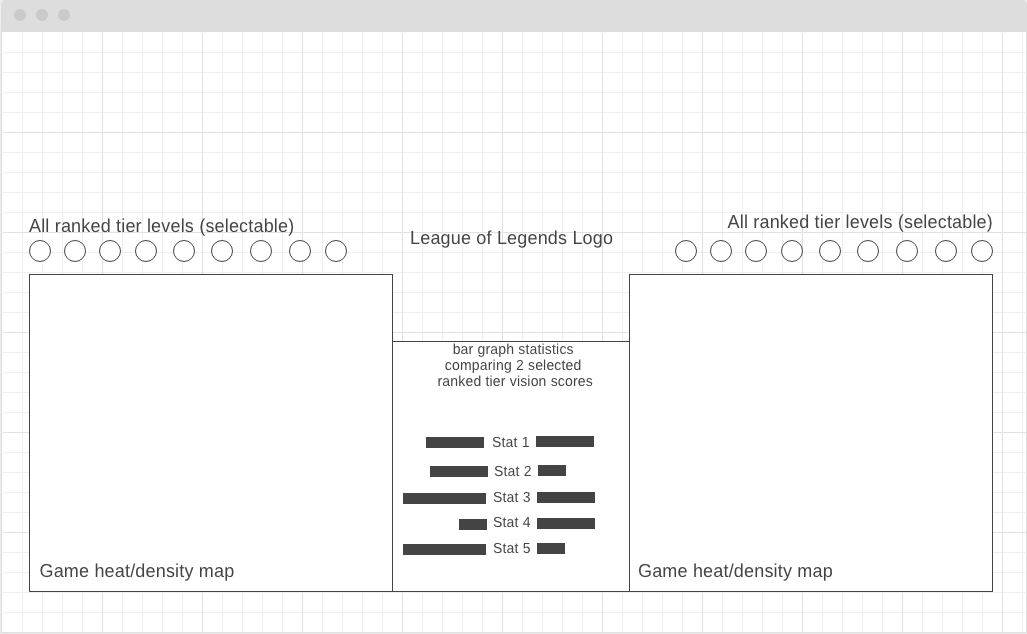
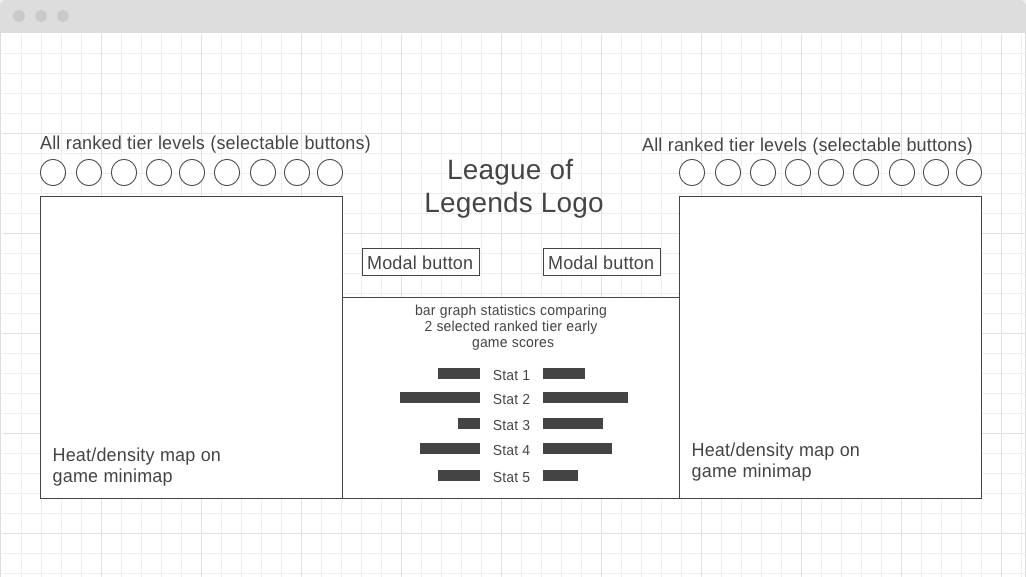
Add readme code snippets and update wireframe

diff --git a/README.md b/README.md
@@ -8,12 +8,64 @@
   * High level overview
     * Users will be able to review and observe patterns of player deaths in the first 15 minutes in a sample selection of matches ranging from the lowest tier of ranked play (iron tier) to the highest level tier (challenger tier). This mapping of data will hopefully show how locations and statistics differ from low-level play vs. high level play. The breakdown of average stats per game, such as total gold earned, wards placed, and towers destroy on the map will also be graphed to show the differences in numbers of how different level divisions perform within the early stages of the game. 
 
-## Functionality and MVP Features
-  * Users will be able to:
-    * Switch between comparisons of all 9 rank tiers to see how the map data changes over different levels of competitive play
-    * See a comparison of two heat/density maps of all player deaths on the game map by two different tier classes within the first 15 minutes of the match
-    * See two sets of buttons available to toggle which league division's stats are being displayed
-    * See a bar graph of average game statistics for that division (average towers destroyed, total gold, wards placed, lane minions killed, and jungle minions killed)
+## Functionality & Features
+  * Users can switch between comparisons of league datasets via 2 sets of buttons to see how the map data changes over different levels of competitive play. This required creating a method that kept track of which button was currently selected. This was done by adding an 'active' class to whichever button had been last clicked and removing it from the previous active button:
+  ```javascript
+  const iconContainer1 = document.getElementById("buttonSet1");
+  const buttonSet1 = iconContainer1.getElementsByClassName("button");
+  for (let i = 0; i < buttonSet1.length; i++) {
+    buttonSet1[i].addEventListener("click", function () {
+      const current = document.getElementsByClassName("active");
+      if (current.length > 0) {
+        current[0].className = current[0].className.replace(" active", "");
+      }
+      this.className += " active";
+    });
+  }
+  ```
+  * When a league dataset is selected via a button, a heat/density map of all player deaths on the game map within the first 15 minutes of the match is seen for that league. Using the D3 library, each data point is individually mapped onto the game minimap with a set of coordinates retrieved from the JSON data as a specific-colored point:
+  ```javascript
+  d3.json(dataPath, function(data) {
+    const dataPoint = data.frames;
+    svg
+      .append("svg:g")
+      .selectAll("circle")
+      .data(dataPoint)
+      .enter()
+      .append("svg:circle")
+      .style("opacity", 0)
+      .attr("cx", function(d) {
+        return xScale(d.position.x);
+      })
+      .attr("cy", function(d) {
+        return yScale(d.position.y);
+      })
+      .attr("r", 5)
+      .style("fill", function(d) {
+        if (d.victimId < 6) {
+          return "rgb(0, 77, 172)"; // <-- colors of data points on map
+        } else {
+          return "rgb(0, 102, 227)"; // <-- colors of data points on map
+               }
+      })
+      .transition()
+      .duration(400)
+      .style("opacity", 1);
+  ```
+  A dataset path is taken in as an argument for each button that is pressed to locate the correct JSON data to map:
+  ```javascript
+  const ironJson = './match_data/iron_match_data.json';
+  ...
+  <img class="button active" 
+    src="./assets/images/button_iron.png" 
+    // The onclick methods called below take in the path location of a specific set of data as an argument:
+    onclick="changeData(`${ironJson}`), updateGraph1(`${ironJson}`)" 
+    onmouseover="showrank('txt-iron1')" 
+    onmouseout="hiderank('txt-iron1')"
+  >
+  ```
+  * User will see a bar graph of average game statistics for that league (average towers destroyed, total gold, wards placed, lane minions killed, and jungle minions killed).
+  * There are 2 buttons located at the center of the app that open modals witha  brief explanation of what League of Legends is and what is being displayed.
 
 ## Wireframes
   * The app will consist of two top-down maps of the game at the bottom with two separate line graphs (one for data on each tier). There will be a navbar above each map of all the league tiers to change the data being visualized in both the line graphs and game map. 
